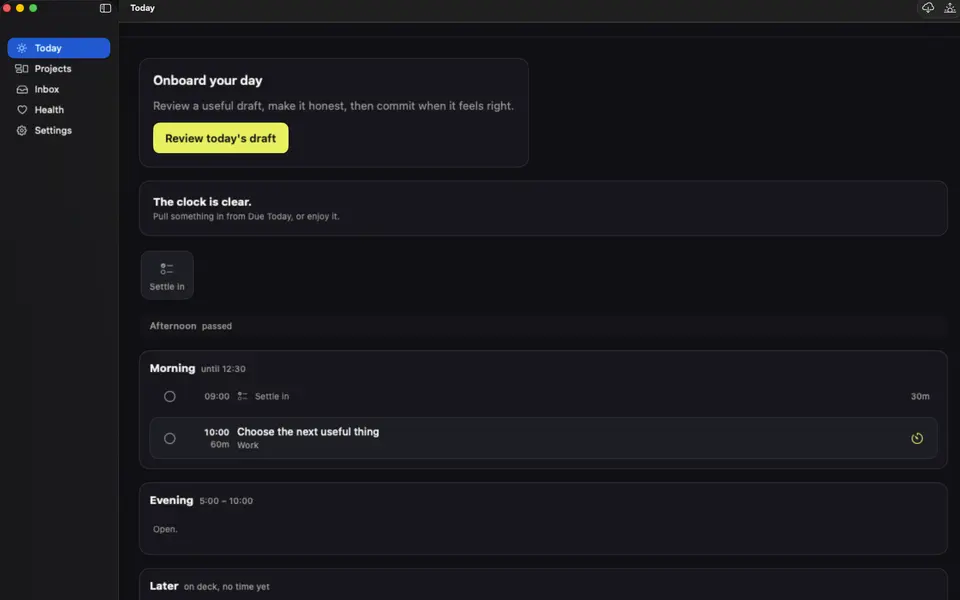
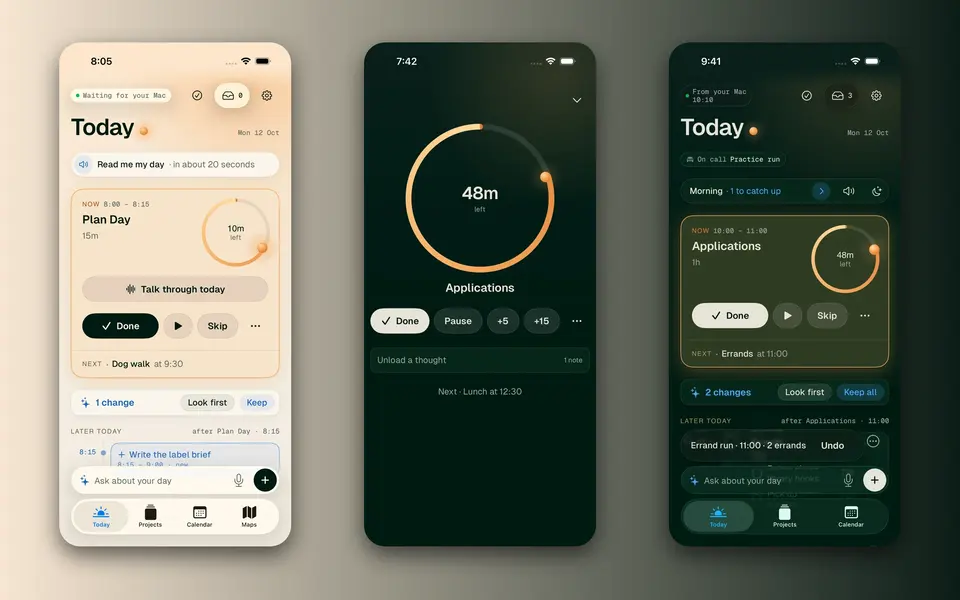
Rewrite the Daybreak case study for the rebuilt app
The case study now tells the ground-up rebuild: the paper and ink look,
Catch up, AI that only proposes, Focus, and errand runs. Six new screen
composites from the build journal's sample-data captures replace the old
screenshots, with a new share image and /card artifact.

diff --git a/src/data/project-stories.ts b/src/data/project-stories.ts
@@ -19,9 +19,9 @@ export const projectStories: Record<string, { problem: string; decision: string;
     mark: "/images/project-marks/vegavengers.svg",
   },
   daybreak: {
-    problem: "A generated daily plan is only useful when it respects real commitments and stays editable.",
-    decision: "Give people and AI the same typed operations, with a receipt for every change.",
-    outcome: "Signed Mac and iPhone builds I dogfood every day. I haven’t validated it with other users yet.",
+    problem: "My planner made me commit the day, and let unfinished work pile up as guilt.",
+    decision: "Nothing is late, it just needs a place. The planner and the AI only propose.",
+    outcome: "Rebuilt from the ground up and in daily use on Mac and iPhone since October 15. I haven’t tested it with other people yet.",
     mark: "/images/project-marks/daybreak.webp",
   },
 };

diff --git a/CHANGELOG.md b/CHANGELOG.md
@@ -2,6 +2,13 @@
 
 All notable changes to this portfolio site should be documented here.
 
+## 2026-10-27 — Daybreak case study for the rebuilt app
+
+- Rewrote the Daybreak case study around the ground-up rebuild Cello switched to on October 15: why it was rebuilt, the paper-by-day / ink-by-night look (round one rejected for dashed lines), Catch up and check-ins, AI that only proposes (a four-step flow replaces the six-step operation model), Focus, errand runs with Maps, and outcome and limits. Kept in the conversational voice and short; `engagement` stays "My product · Since July 2026".
+- Six new 2400×1500 screen composites (`hero`, `look`, `catch-up`, `talk-through`, `focus`, `maps` .webp) built from the Daybreak build journal's sample-data captures, plus a new `og.png`. All are shown `uncropped`. Removed the four old screenshots, which nothing else used.
+- The /card artifact now comes from `hero.webp` (`scripts/scene-derivatives.mjs`), regenerated at 960×600. Updated the Daybreak home-preview lines in `src/data/project-stories.ts`.
+- Validation: clean `pnpm build` (16 pages, 0 check errors/warnings/hints); the case study checked rendered at 1280 and 375 px with no horizontal scroll.
+
 ## 2026-10-27 — Practice, ownership and availability copy
 
 - Every case study now says whose work it is: a new optional `engagement` frontmatter field ("Client · Since January 2022", "My product · Since July 2026") leads the role eyebrow on home, /projects, the case-study header, the next-story link and /card (`src/lib/project-label.ts`).
